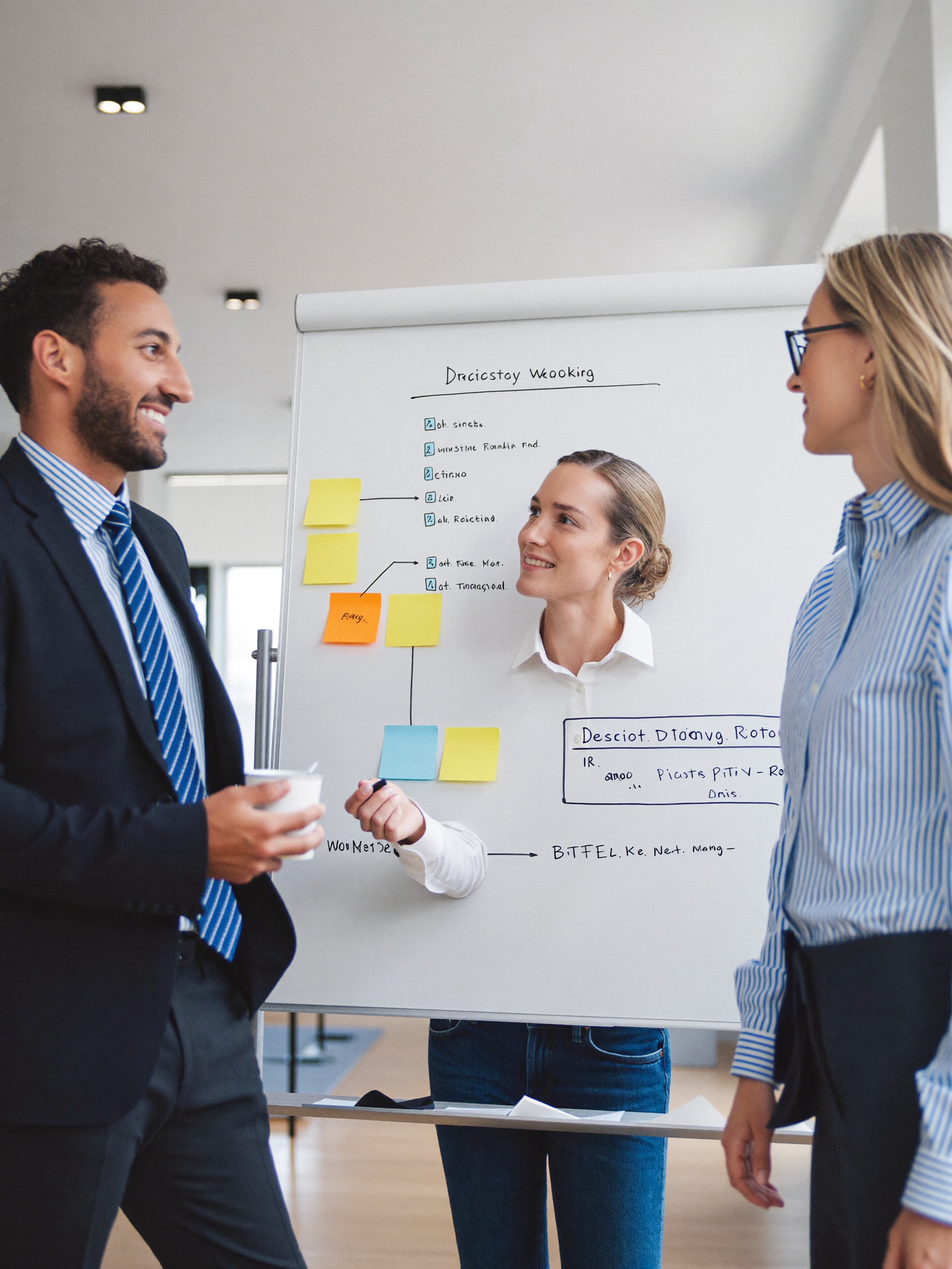
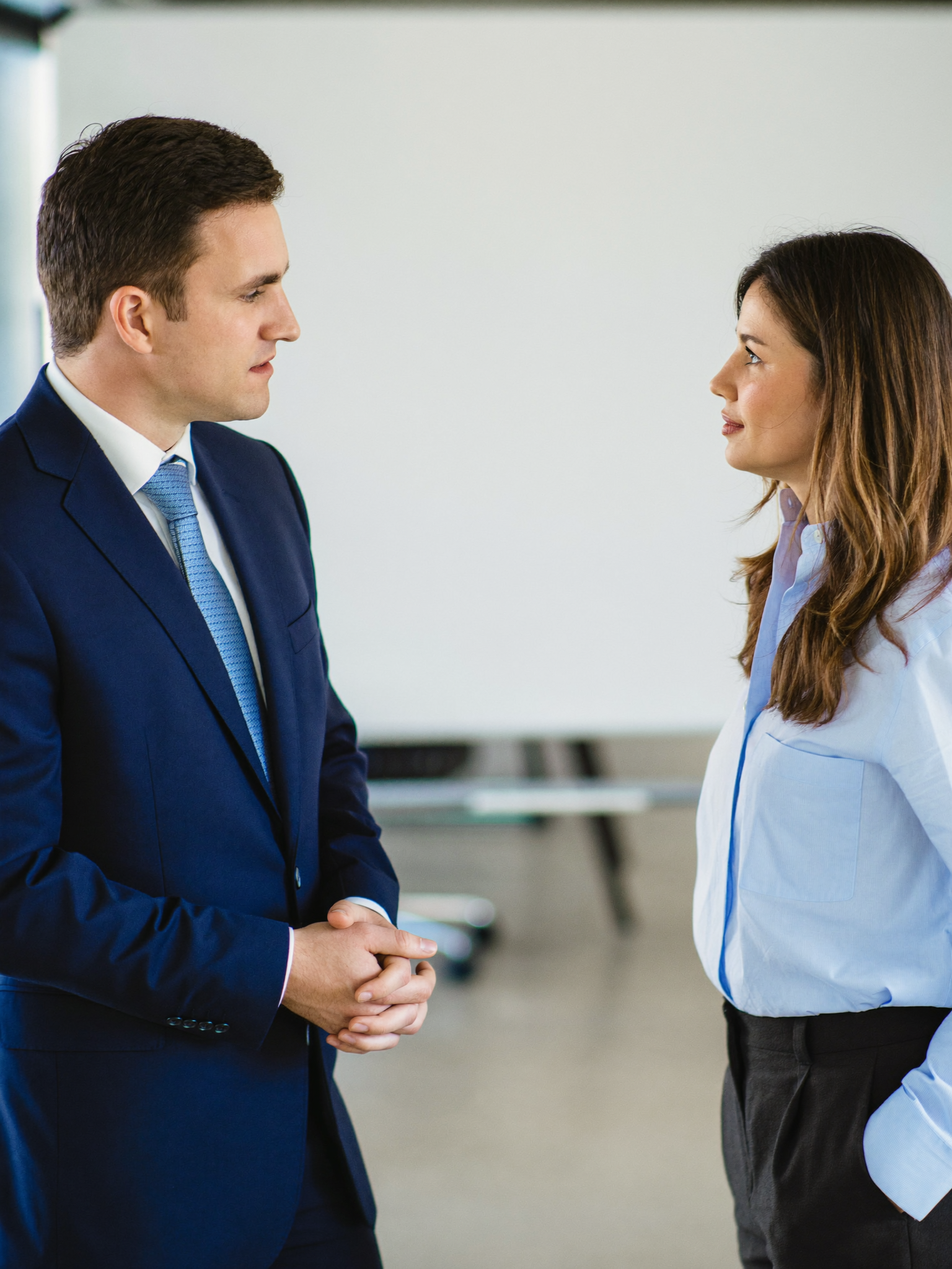
fix: replace Approach photo with clean, non-artifacted image
The previous approach-workshop image had AI artifacts — the woman
merged into the flip-chart and the whiteboard showed gibberish text.
Regenerated with the people as the sharp focal point and a blank,
softly-blurred board behind them, and updated the alt text to match.

diff --git a/content/sections.ts b/content/sections.ts
@@ -60,7 +60,7 @@ export const approach = {
   heading: "We don't start with code. We start with your operations.",
   intro: "Consulting → Systems → SaaS. A four-step method that maps your business before a single line is written.",
   image: "/brand/approach-workshop.png",
-  imageAlt: "A WnR consultant mapping a client's workflow on a whiteboard during a discovery workshop",
+  imageAlt: "Two WnR consultants in discussion during a client discovery session",
   steps: [
     { num: "01", title: "Map", body: "We map your workflows and pinpoint exactly where time and money leak today." },
     { num: "02", title: "Build", body: "We build the right system around your operations — purpose-built, never a generic tool." },
